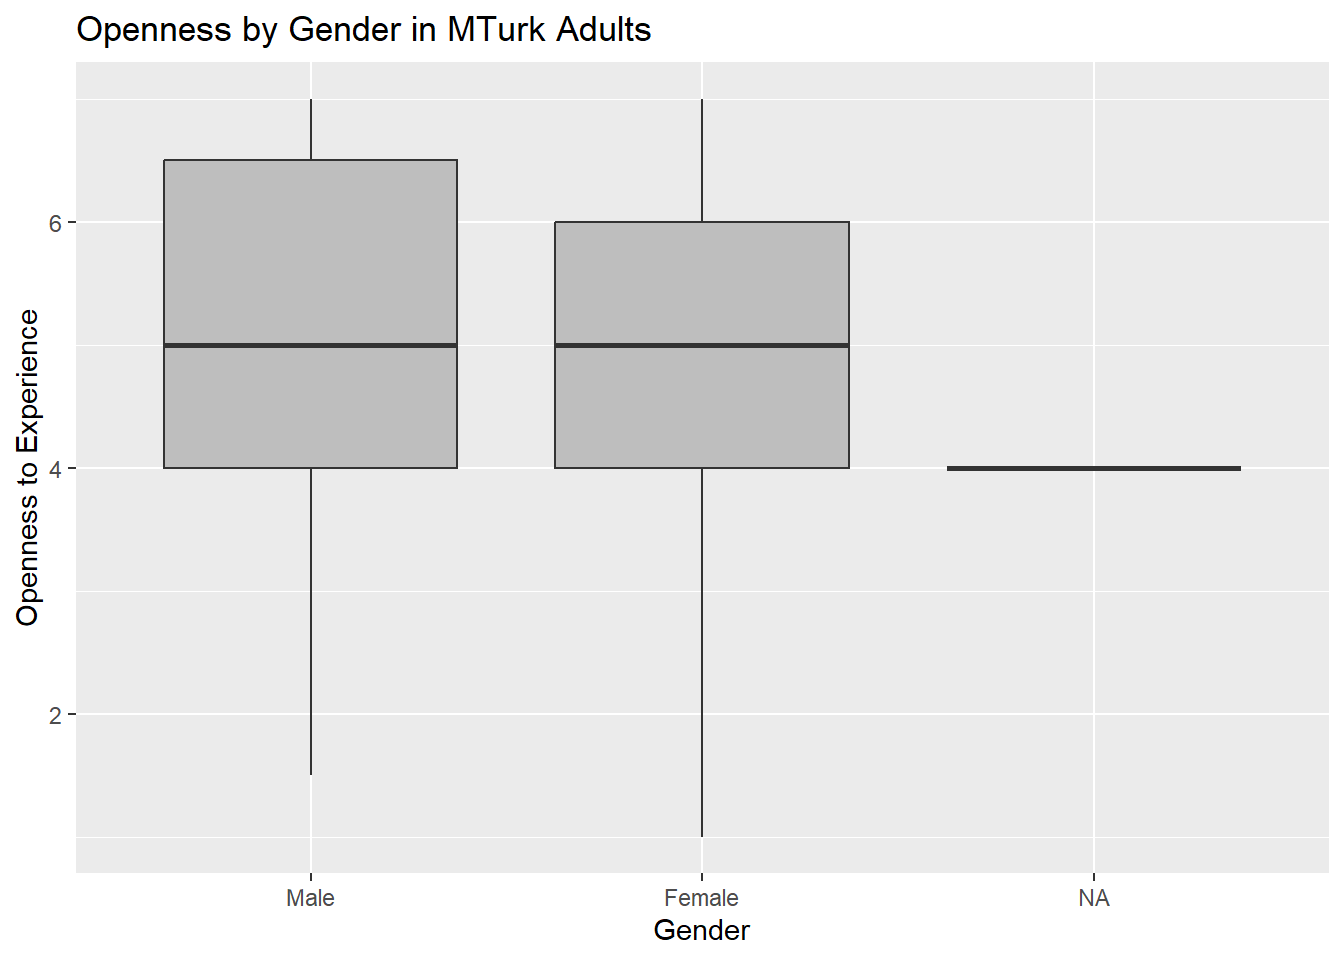
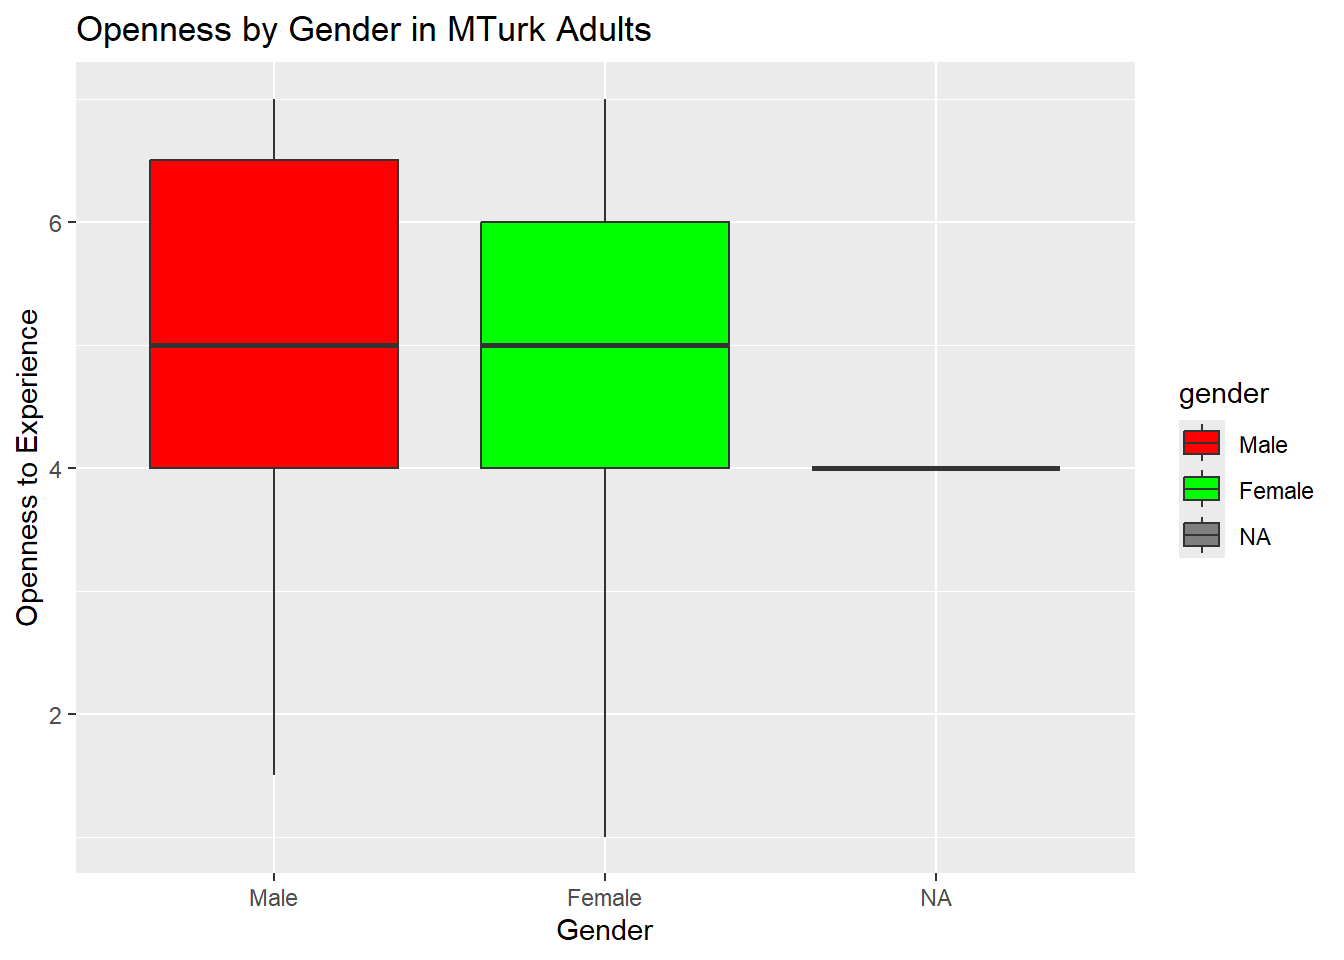
added dataset section

diff --git a/docs/p04.html b/docs/p04.html
@@ -507,8 +507,10 @@ openness increases, the regression line rises steeply, and
 higher‑openness participants tend to report clearly higher enjoyment of
 effortful thinking. More open adults are not just curious; they also
 like engaging with complex, cognitively demanding tasks.</p>
-<pre class="r"><code>ggplot(mTurk_correlates, aes(x = gender, y = openness)) +
-  geom_boxplot(fill = &quot;gray&quot;) +
+<pre class="r"><code>ggplot(mTurk_correlates, aes(x = gender, y = openness, fill = gender)) +
+  geom_boxplot() +
+  scale_fill_manual(values = c(&quot;Male&quot; = &quot;red&quot;,
+                               &quot;Female&quot; = &quot;green&quot;)) +
   labs(
     x = &quot;Gender&quot;,
     y = &quot;Openness to Experience&quot;,
@@ -522,6 +524,52 @@ whiskers, indicating no substantial gender difference in openness
 scores. Openness appears to cut across gender in this adult online
 sample, and this reinforces the idea that it’s a psychological trait
 rather than a demographic marker.</p>
+<pre class="r"><code>mTurk_long &lt;- mTurk_correlates %&gt;% 
+  filter(!is.na(gender)) %&gt;% 
+  pivot_longer(
+    cols = c(self_esteem, satisfaction, nfc),
+    names_to = &quot;outcome&quot;,
+    values_to = &quot;score&quot;
+  ) %&gt;% 
+  mutate(
+    outcome = factor(
+      outcome,
+      levels = c(&quot;self_esteem&quot;, &quot;satisfaction&quot;, &quot;nfc&quot;),
+      labels = c(&quot;Self-esteem&quot;, &quot;Satisfaction with life&quot;, &quot;Need for cognition&quot;)
+    )
+  )
+
+ggplot(mTurk_long,
+       aes(x = gender, y = score, fill = gender)) +
+  geom_boxplot(alpha = 0.6, width = 0.6) +
+  facet_wrap(~ outcome, nrow = 1) +
+  scale_fill_manual(values = c(&quot;Male&quot; = &quot;red&quot;, &quot;Female&quot; = &quot;green&quot;)) +
+  labs(
+    x = &quot;Gender&quot;,
+    y = &quot;Scale score&quot;,
+    title = &quot;Self-esteem, Satisfaction, and Need for Cognition by Gender in MTurk Adults&quot;
+  ) +
+  theme(legend.position = &quot;none&quot;) +
+  theme_minimal()</code></pre>
+<p><img src="p04_files/figure-html/-%20facet%20of%20openness%20x%20correlates%20by%20gender-1.png" alt="" width="672" /></p>
+<p>Interpretation: Self‑esteem, life satisfaction, and need for
+cognition are broadly similar for male and female individuals In all
+three panels, the male and female boxplots have overlapping medians and
+interquartile ranges, with only small differences at most. Both openness
+and its key correlates (self‑esteem, satisfaction, NFC) are not strongly
+gendered in this sample.</p>
+</div>
+<div id="data" class="section level3">
+<h3>Data</h3>
+<p>The dataset comes from an online survey of 300 adult workers
+recruited through Amazon Mechanical Turk, who completed measures of
+openness to experience, self‑esteem, satisfaction with life, need for
+cognition, and basic demographics. This data was distributed in my
+Research Methods 1 class. Openness, self‑esteem, satisfaction, and NFC
+were each scored as averaged Likert‑type scales, with higher scores
+indicating greater levels of the underlying trait or attitude. Age was
+recorded in years (continuous), and gender was self‑reported using a
+binary male/female option in this sample.</p>
 </div>
 
 
